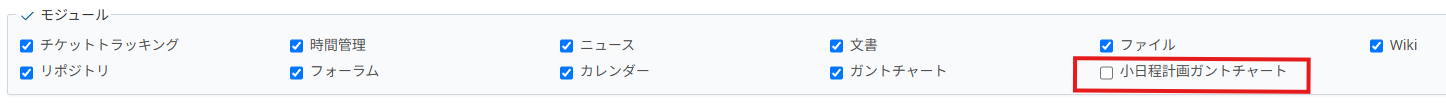
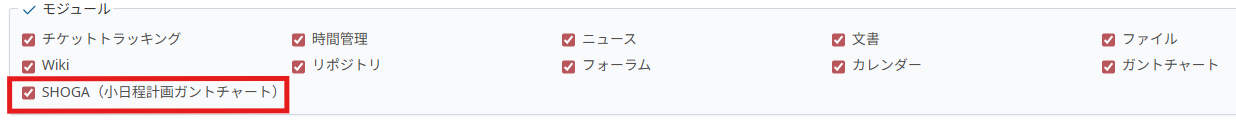
チュートリアルを更新

diff --git a/README.md b/README.md
@@ -26,14 +26,14 @@
 3. このプラグインを使いたいプロジェクトの設定画面で有効化する  
    `参考URL：/projects/[プロジェクト識別子]/settings`
 
-4. モジュール欄に「小日程計画ガントチャート」チェックボックスが追加されるのでチェックする
+4. モジュール欄に「SHOGA（小日程計画ガントチャート）」チェックボックスが追加されるのでチェックする
 ![有効化](image/README/activate.png)
 
 5. 管理メニューにある「ロールと権限」から権限を付与したいロールをクリックして「スプレッドシートの閲覧」と「スプレッドシートの更新」にチェックを付けて保存する
 ![管理メニュー](image/README/admin_menu.png)
 ![権限](image/README/authority.png)
 
-6. プロジェクト内のタブに「小日程計画ガントチャート」タブが表示されるようになるのでクリックする
+6. プロジェクト内のタブに「SHOGA」タブが表示されるようになるのでクリックする
 ![タブ](image/README/tab.png)
 
 - マイグレーションをロールバックする方法。アンインストールする際等に使用  
@@ -48,7 +48,8 @@
 2. プロジェクトにメンバーを追加する
 [プロジェクトにメンバーを追加する](https://redmine.jp/tech_note/first-step/admin/add-project-member/ "プロジェクトにメンバーを追加する方法")
 
-3. チケットを作成する
+3. チケットを作成する 
+    - 新しいチケットを作成」をクリックする
 ![新しいチケット](image/README/new_ticket.png)
 
 4. プロジェクトに全体スケジュールを設定する
